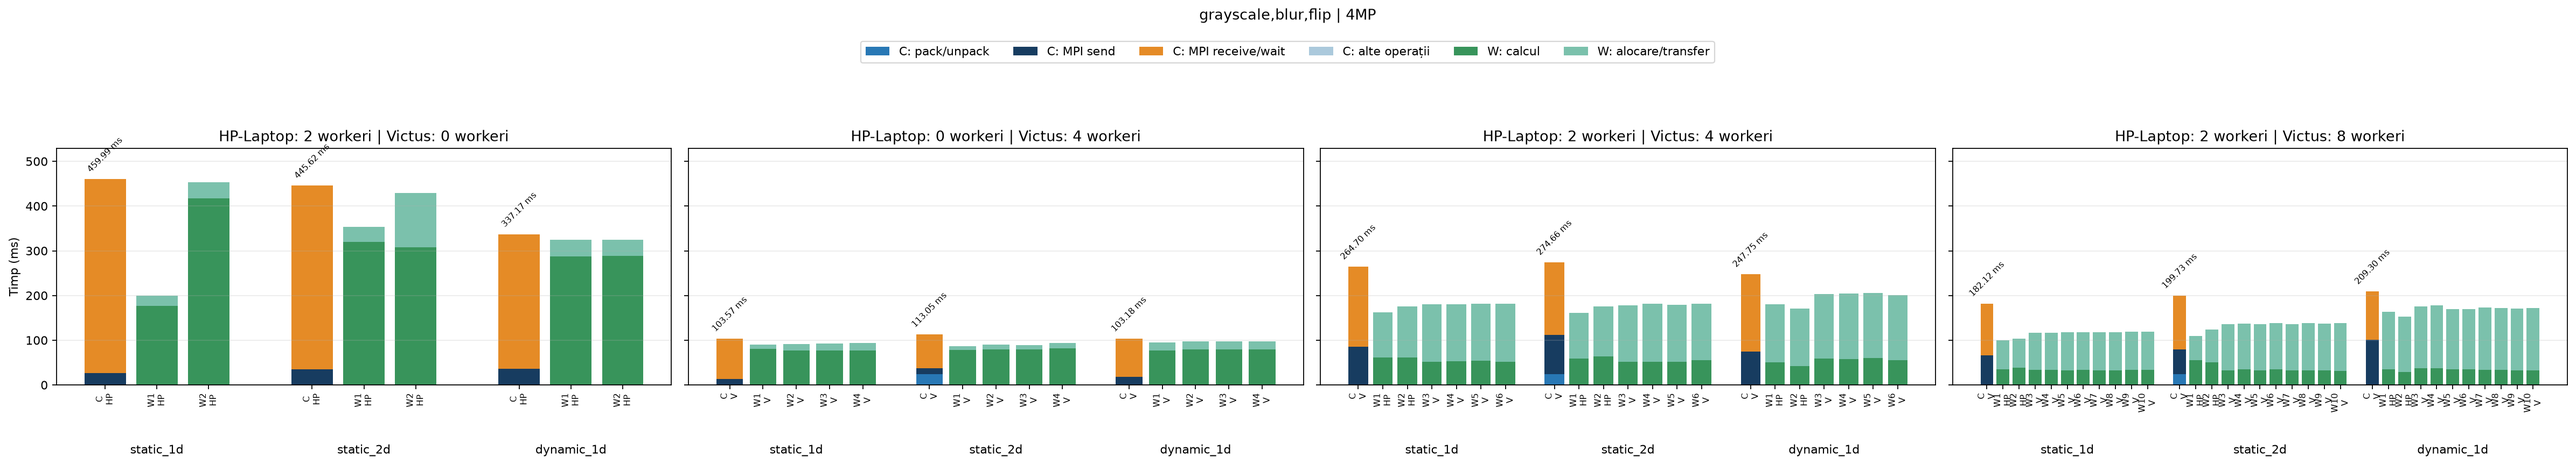
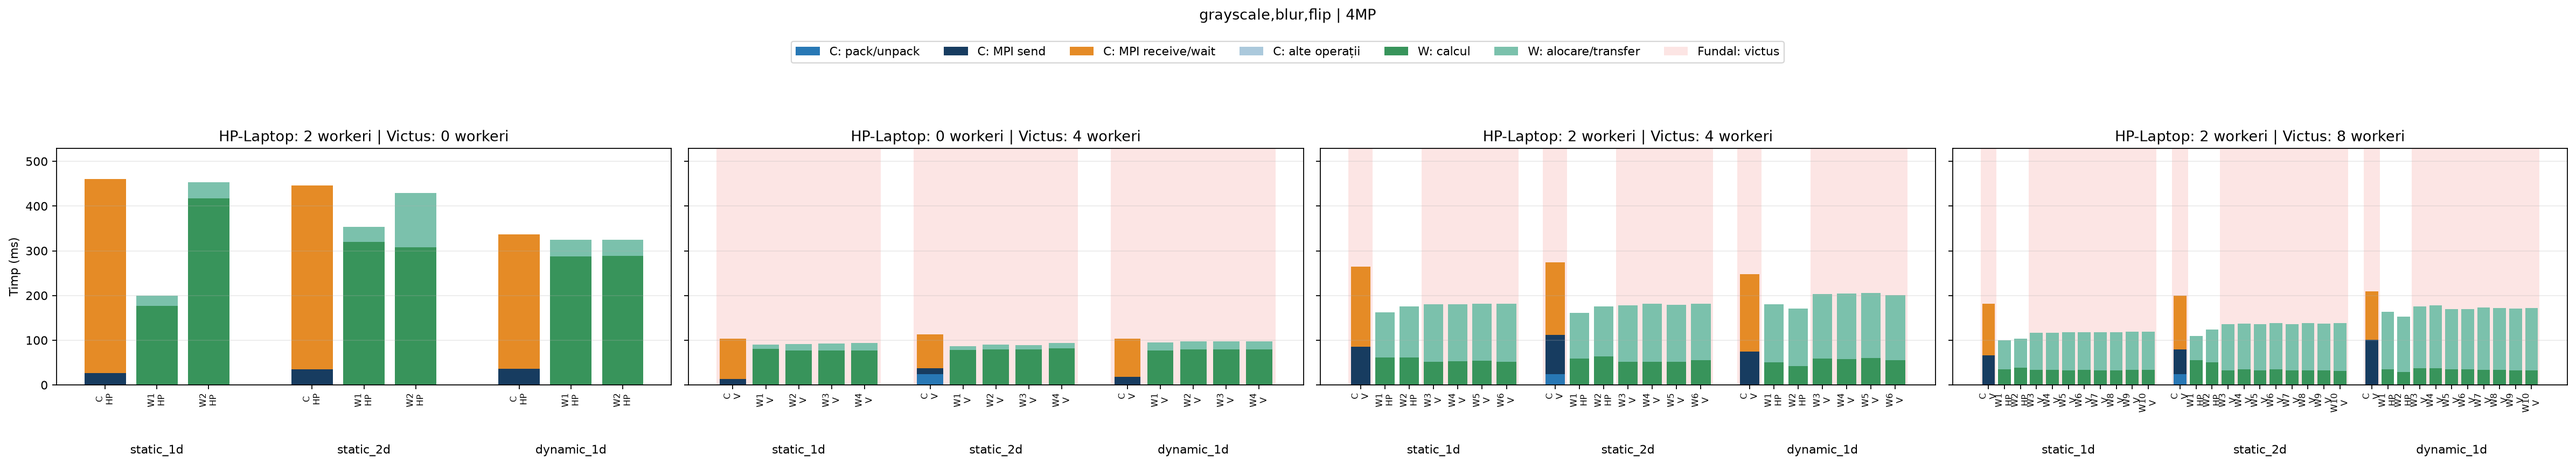
Shade Victus bars and remove coordinator time labels

diff --git a/HW1/benchmark_two_machines_small.py b/HW1/benchmark_two_machines_small.py
@@ -12,6 +12,7 @@ import time
 
 import benchmark as b
 import matplotlib.pyplot as plt
+from matplotlib.patches import Patch
 
 ROOT = Path(__file__).resolve().parent
 OUTPUT_ROOT = ROOT / 'benchmark_two_machines'
@@ -26,6 +27,8 @@ CONFIGS = [(h, 0) for h in (1, 2)] + [(0, v) for v in range(1, 9)] + [(h, v) for
 PROFILES = [(2, 0), (0, 4), (2, 4), (2, 8)]
 TITLES = ['HP-Laptop workers only', 'Victus workers only', 'HP-Laptop: 1 worker + Victus', 'HP-Laptop: 2 workers + Victus']
 COLORS = ['#2878b5', '#e58b26', '#38945b']
+HOST_BACKGROUNDS = {'victus': '#ef5350'}
+HOST_BACKGROUND_ALPHA = .15
 
 
 def image_path():
@@ -246,17 +249,23 @@ def figures_and_report(raw):
             pos = 0
             for mode in MODES:
                 r = next(r for r in subset if (r['mode'], r['hp'], r['victus']) == (mode, h, v))
+                if coordinator(h, v) in HOST_BACKGROUNDS:
+                    ax.axvspan(pos - .5, pos + .5, color=HOST_BACKGROUNDS[coordinator(h, v)],
+                               alpha=HOST_BACKGROUND_ALPHA, linewidth=0, zorder=0)
                 parts = [r['pack'], r['send'], r['wait'], max(0, r['total']-r['pack']-r['send']-r['wait'])]
                 bottom = 0
                 for value, color, label in zip(parts, ['#2878b5', '#173c60', '#e58b26', '#abc9dc'], ['C: pack/unpack', 'C: MPI send', 'C: MPI receive/wait', 'C: alte operații']):
                     ax.bar(pos, value*1000, bottom=bottom, color=color, label=label if pos == 0 else None)
                     bottom += value*1000
-                ax.annotate(f'{r["total"]*1000:.2f} ms', (pos, r['total']*1000), xytext=(0, 6), textcoords='offset points', ha='center', fontsize=7, rotation=45)
                 ticks.append(pos)
                 labels.append('C\n' + ('HP' if coordinator(h, v) == 'HP-Laptop' else 'V'))
                 start = pos
                 for i, (comp, ops) in enumerate(zip(r['workers_comp'], r['workers_ops'])):
                     pos += 1
+                    host = 'HP-Laptop' if i < h else 'victus'
+                    if host in HOST_BACKGROUNDS:
+                        ax.axvspan(pos - .5, pos + .5, color=HOST_BACKGROUNDS[host],
+                                   alpha=HOST_BACKGROUND_ALPHA, linewidth=0, zorder=0)
                     ax.bar(pos, comp*1000, color='#38945b', label='W: calcul' if pos == 1 else None)
                     ax.bar(pos, ops*1000, bottom=comp*1000, color='#7bc1ac', label='W: alocare/transfer' if pos == 1 else None)
                     ticks.append(pos)
@@ -268,7 +277,10 @@ def figures_and_report(raw):
             ax.grid(axis='y', alpha=.25)
         axes[0].set_ylabel('Timp (ms)')
         handles, labels = axes[0].get_legend_handles_labels()
-        fig.legend(handles, labels, loc='upper center', bbox_to_anchor=(.5, .95), ncol=6)
+        for host, color in HOST_BACKGROUNDS.items():
+            handles.append(Patch(facecolor=color, alpha=HOST_BACKGROUND_ALPHA, edgecolor='none'))
+            labels.append(f'Fundal: {host}')
+        fig.legend(handles, labels, loc='upper center', bbox_to_anchor=(.5, .95), ncol=7)
         fig.suptitle(f'{op} | {RESOLUTION[0]}', y=.995)
         fig.tight_layout(rect=(0, .12, 1, .86))
         fig.savefig(OUT / f'partition_strategies_{slug}.png', dpi=160, bbox_inches='tight')
@@ -281,7 +293,7 @@ def figures_and_report(raw):
     report += ['## Verificare și interpretare', '',
         f'Cea mai lentă repetare a durat {peak["total"]*1000:.3f} ms, pentru {peak["op"]}, {peak["mode"]}, cu {peak["hp"]} workeri HP-Laptop și {peak["victus"]} workeri Victus. Cea mai mare abatere standard relativă este {worst["std"]/worst["total"]*100:.1f}%, pentru {worst["op"]}, {worst["mode"]}, HP={worst["hp"]}, Victus={worst["victus"]}. Am păstrat toate repetările. Acest pilot verifică matricea și graficele, dar variația limitează concluziile despre ordinea strategiilor. Nu am măsurat separat rețeaua sau încărcarea de fond, deci nu pot atribui variația unei singure cauze.', '',
         f'Toate cele {len(rows)} de configurații au rezultate identice pixel cu pixel cu referința secvențială în prima repetare.', '',
-        'Barele C și W se suprapun în timp și nu se adună. HP înseamnă HP-Laptop, iar V înseamnă Victus. Barele workerilor arată calculul și timpul instrumentat de alocare/transfer. Timpul rămas până la timpul coordonatorului nu este etichetat drept inactivitate, deoarece programul nu măsoară separat acea durată. Segmentele pack/unpack nu sunt defalcate per worker, deoarece instrumentarea oferă numai totalul coordonatorului.', '',
+        'Barele C și W se suprapun în timp și nu se adună. HP înseamnă HP-Laptop, iar V înseamnă Victus. Fundalul roșu, cu opacitate de 15%, identifică barele de pe Victus. Barele de pe HP-Laptop au fundal alb. Barele workerilor arată calculul și timpul instrumentat de alocare/transfer. Timpul rămas până la timpul coordonatorului nu este etichetat drept inactivitate, deoarece programul nu măsoară separat acea durată. Segmentele pack/unpack nu sunt defalcate per worker, deoarece instrumentarea oferă numai totalul coordonatorului.', '',
         '## Reproducere', '',
         'Scriptul separat este [benchmark_two_machines_small.py](benchmark_two_machines_small.py). Ambele calculatoare trebuie să acceseze același director și să accepte conexiuni SSH fără parolă. Rularea completă folosește comanda de mai jos. Scriptul reia configurațiile lipsă din jurnalul existent.', '',
         '```bash', 'uv run --with numpy --with matplotlib python benchmark_two_machines_small.py', '```', '',

diff --git a/HW1/experimental_study_two_machines_1.5MP.md b/HW1/experimental_study_two_machines_1.5MP.md
@@ -62,7 +62,7 @@ Cea mai lentă repetare a durat 290.853 ms, pentru grayscale,blur,flip, dynamic_
 
 Toate cele 320 de configurații au rezultate identice pixel cu pixel cu referința secvențială în prima repetare.
 
-Barele C și W se suprapun în timp și nu se adună. HP înseamnă HP-Laptop, iar V înseamnă Victus. Barele workerilor arată calculul și timpul instrumentat de alocare/transfer. Timpul rămas până la timpul coordonatorului nu este etichetat drept inactivitate, deoarece programul nu măsoară separat acea durată. Segmentele pack/unpack nu sunt defalcate per worker, deoarece instrumentarea oferă numai totalul coordonatorului.
+Barele C și W se suprapun în timp și nu se adună. HP înseamnă HP-Laptop, iar V înseamnă Victus. Fundalul roșu, cu opacitate de 15%, identifică barele de pe Victus. Barele de pe HP-Laptop au fundal alb. Barele workerilor arată calculul și timpul instrumentat de alocare/transfer. Timpul rămas până la timpul coordonatorului nu este etichetat drept inactivitate, deoarece programul nu măsoară separat acea durată. Segmentele pack/unpack nu sunt defalcate per worker, deoarece instrumentarea oferă numai totalul coordonatorului.
 
 ## Reproducere
 

diff --git a/HW1/experimental_study_two_machines_4MP.md b/HW1/experimental_study_two_machines_4MP.md
@@ -62,7 +62,7 @@ Cea mai lentă repetare a durat 507.170 ms, pentru grayscale,blur,flip, static_2
 
 Toate cele 320 de configurații au rezultate identice pixel cu pixel cu referința secvențială în prima repetare.
 
-Barele C și W se suprapun în timp și nu se adună. HP înseamnă HP-Laptop, iar V înseamnă Victus. Barele workerilor arată calculul și timpul instrumentat de alocare/transfer. Timpul rămas până la timpul coordonatorului nu este etichetat drept inactivitate, deoarece programul nu măsoară separat acea durată. Segmentele pack/unpack nu sunt defalcate per worker, deoarece instrumentarea oferă numai totalul coordonatorului.
+Barele C și W se suprapun în timp și nu se adună. HP înseamnă HP-Laptop, iar V înseamnă Victus. Fundalul roșu, cu opacitate de 15%, identifică barele de pe Victus. Barele de pe HP-Laptop au fundal alb. Barele workerilor arată calculul și timpul instrumentat de alocare/transfer. Timpul rămas până la timpul coordonatorului nu este etichetat drept inactivitate, deoarece programul nu măsoară separat acea durată. Segmentele pack/unpack nu sunt defalcate per worker, deoarece instrumentarea oferă numai totalul coordonatorului.
 
 ## Reproducere
 

diff --git a/HW1/experimental_study_two_machines_8MP.md b/HW1/experimental_study_two_machines_8MP.md
@@ -62,7 +62,7 @@ Cea mai lentă repetare a durat 1042.464 ms, pentru grayscale,blur,flip, static_
 
 Toate cele 320 de configurații au rezultate identice pixel cu pixel cu referința secvențială în prima repetare.
 
-Barele C și W se suprapun în timp și nu se adună. HP înseamnă HP-Laptop, iar V înseamnă Victus. Barele workerilor arată calculul și timpul instrumentat de alocare/transfer. Timpul rămas până la timpul coordonatorului nu este etichetat drept inactivitate, deoarece programul nu măsoară separat acea durată. Segmentele pack/unpack nu sunt defalcate per worker, deoarece instrumentarea oferă numai totalul coordonatorului.
+Barele C și W se suprapun în timp și nu se adună. HP înseamnă HP-Laptop, iar V înseamnă Victus. Fundalul roșu, cu opacitate de 15%, identifică barele de pe Victus. Barele de pe HP-Laptop au fundal alb. Barele workerilor arată calculul și timpul instrumentat de alocare/transfer. Timpul rămas până la timpul coordonatorului nu este etichetat drept inactivitate, deoarece programul nu măsoară separat acea durată. Segmentele pack/unpack nu sunt defalcate per worker, deoarece instrumentarea oferă numai totalul coordonatorului.
 
 ## Reproducere
 

diff --git a/HW1/experimental_study_two_machines_64MP.md b/HW1/experimental_study_two_machines_64MP.md
@@ -32,7 +32,7 @@ Cea mai lentă repetare a durat 11666.043 ms, pentru grayscale,blur,flip, static
 
 Toate cele 80 de configurații au rezultate identice pixel cu pixel cu referința secvențială în prima repetare.
 
-Barele C și W se suprapun în timp și nu se adună. HP înseamnă HP-Laptop, iar V înseamnă Victus. Barele workerilor arată calculul și timpul instrumentat de alocare/transfer. Timpul rămas până la timpul coordonatorului nu este etichetat drept inactivitate, deoarece programul nu măsoară separat acea durată. Segmentele pack/unpack nu sunt defalcate per worker, deoarece instrumentarea oferă numai totalul coordonatorului.
+Barele C și W se suprapun în timp și nu se adună. HP înseamnă HP-Laptop, iar V înseamnă Victus. Fundalul roșu, cu opacitate de 15%, identifică barele de pe Victus. Barele de pe HP-Laptop au fundal alb. Barele workerilor arată calculul și timpul instrumentat de alocare/transfer. Timpul rămas până la timpul coordonatorului nu este etichetat drept inactivitate, deoarece programul nu măsoară separat acea durată. Segmentele pack/unpack nu sunt defalcate per worker, deoarece instrumentarea oferă numai totalul coordonatorului.
 
 ## Reproducere
 
